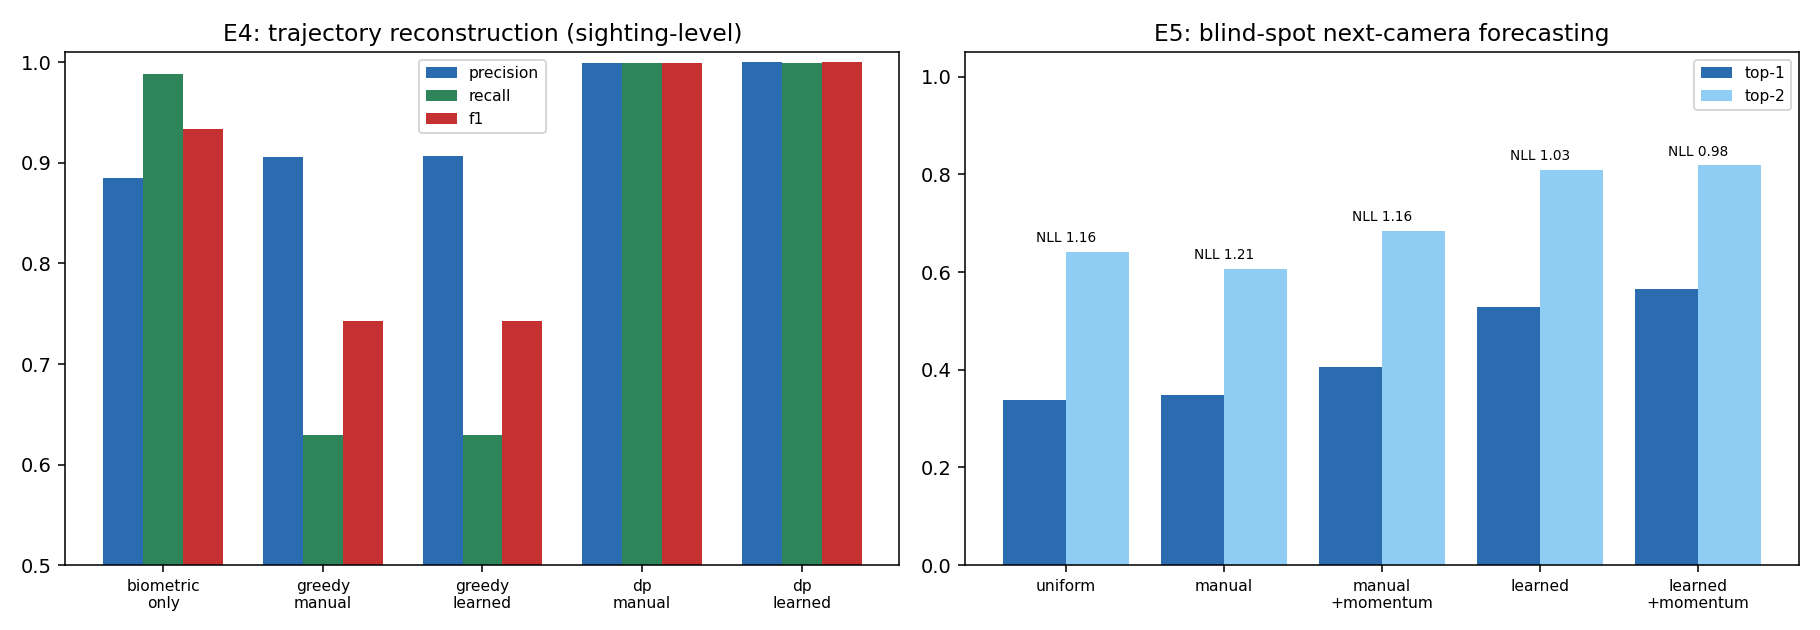
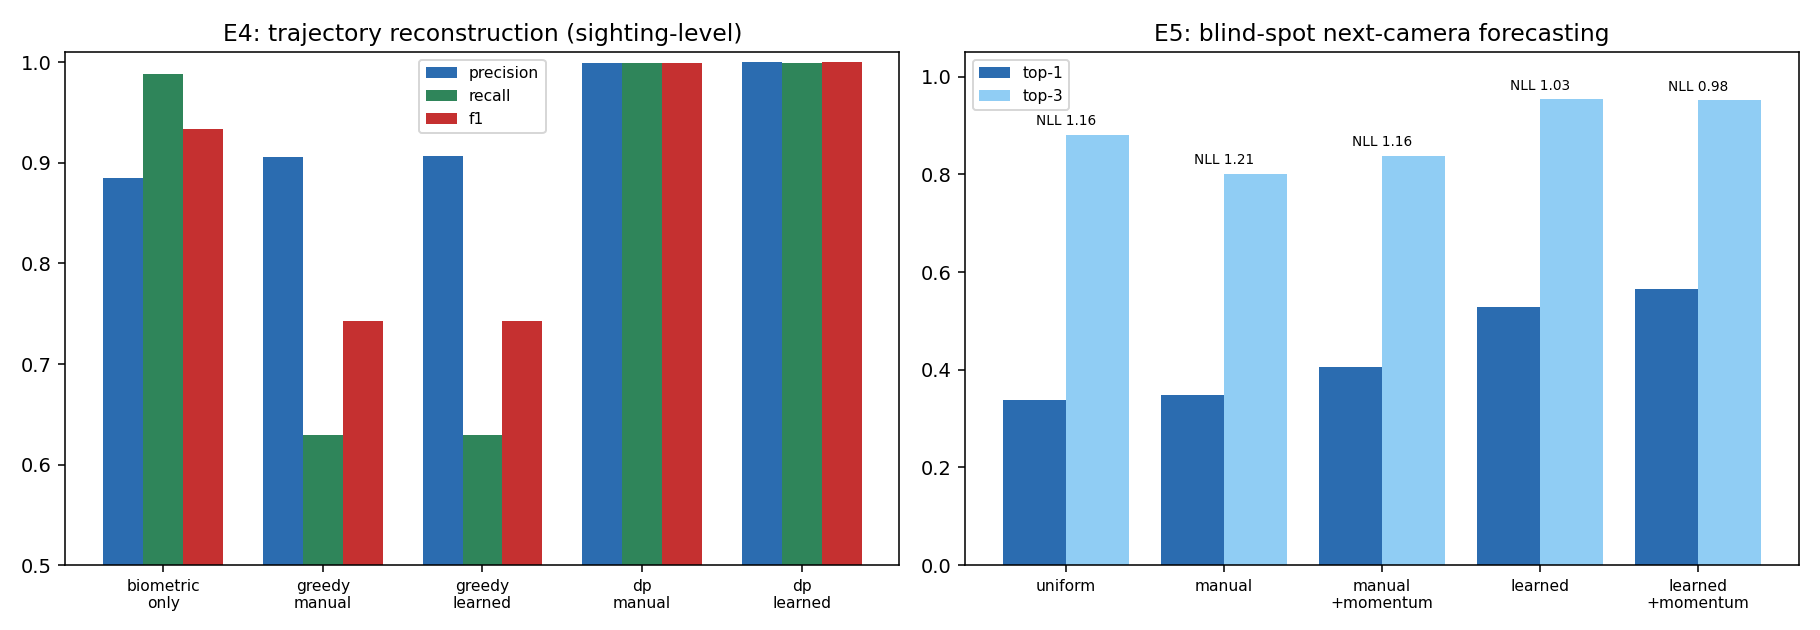
eval(p3): Task 7 three-condition ablation (rejection rate, search-space reduction, top-3) + camera-graph demo and stubs

diff --git a/eval/topology_baseline.py b/eval/topology_baseline.py
@@ -309,6 +309,113 @@ def e4b_stress(manual, learned, truth, probs, n_test, targets, rates, hop_levels
     return {"rows": rows}
 
 
+def e0_ablation(manual, learned, test: SimulationResult, cand_sets) -> Dict:
+    """
+    Task 7 ablation on simulator data with injected false matches:
+        (a) no topology    - biometric confidence only, search every camera
+        (b) manual priors  - full P3 pipeline on the hand-set graph
+        (c) learned priors - full P3 pipeline on the learned model
+    Reported per condition: trajectory precision/recall, false-candidate (look-alike)
+    rejection rate, next-camera top-1/top-3, and search-space reduction, i.e. the
+    fraction of (camera x time) cells an operator would have to watch, relative to
+    watching every camera for the whole remaining search period.
+    """
+    n_cams = len(manual.cameras)
+    pr_m = SpatiotemporalPruner(manual, use_learned=False)
+    pr_l = SpatiotemporalPruner(learned)
+    conds = {
+        "no_topology": None,
+        "manual": (TrajectoryReconstructor(manual, pr_m, method="dp"), BlindSpotForecaster(manual)),
+        "learned": (TrajectoryReconstructor(learned, pr_l, method="dp"), BlindSpotForecaster(learned)),
+    }
+    out = {}
+    for name, setup in conds.items():
+        tp = fp = fn = 0
+        n_look = n_look_kept = 0
+        cam_frac, win_s, span_s, hit = [], [], [], []
+        top1 = top3 = 0
+        n_events = 0
+        base = test.base_time.timestamp()
+        for pid, (cands, labels) in cand_sets.items():
+            visits = test.trajectories[pid]
+            if setup is None:
+                steps: Dict[int, object] = {}
+                for c in cands:
+                    k = int(math.floor(to_seconds(c.timestamp)))
+                    if k not in steps or c.fused_score > steps[k].fused_score:
+                        steps[k] = c
+                chosen = [steps[k] for k in sorted(steps)]
+            else:
+                chosen = setup[0].reconstruct(cands).selected
+            ids = {c.candidate_id for c in chosen}
+            tp += sum(1 for c in ids if labels[c])
+            fp += sum(1 for c in ids if not labels[c])
+            fn += sum(1 for c, ok in labels.items() if ok and c not in ids)
+            n_look += sum(1 for ok in labels.values() if not ok)
+            n_look_kept += sum(1 for c in ids if not labels[c])
+
+            # mid-search scenario: the operator has confirmed points up to an anchor that
+            # is not in the final camera visit, and must decide where to look next
+            chosen_sorted = sorted(chosen, key=lambda c: to_seconds(c.timestamp))
+            if not chosen_sorted:
+                continue
+            groups: List[List] = [[]]
+            for c in chosen_sorted:
+                if groups[-1] and (c.camera_id != groups[-1][-1].camera_id
+                                   or to_seconds(c.timestamp) - to_seconds(groups[-1][-1].timestamp) > 20.0):
+                    groups.append([])
+                groups[-1].append(c)
+            anchor_group = groups[-2] if len(groups) >= 2 else groups[0]
+            anchor = anchor_group[-1]
+            t_last = to_seconds(anchor.timestamp) - base
+            obs = [v for v in visits if v.observed]
+            nxt = [v for v in obs if v.arrival_time > t_last + 1e-6]
+            span = (visits[-1].departure_time - t_last) if nxt else 0.0
+            if not nxt:
+                continue
+            arrive = nxt[0].arrival_time - t_last
+            true_cam = nxt[0].camera_id
+            if setup is None:
+                cams, w = list(manual.cameras), span          # watch everything until period end
+                top1 += 1 / n_cams
+                top3 += min(3 / n_cams, 1.0)
+                n_events += 1
+            else:
+                fc = setup[1]
+                hist = [c for c in chosen_sorted if to_seconds(c.timestamp) <= to_seconds(anchor.timestamp)]
+                pred = fc.forecast(anchor.camera_id, anchor.timestamp, hist)
+                cams, w = [], 0.0
+                mass = 0.0
+                for c, p in zip(pred.candidate_next_cameras, pred.transition_probabilities):
+                    cams.append(c)
+                    mass += p
+                    if mass >= 0.9 - 1e-9:
+                        break
+                w = pred.estimated_arrival_window_seconds[1]
+                top1 += pred.candidate_next_cameras[0] == true_cam
+                top3 += true_cam in pred.candidate_next_cameras[:3]
+                n_events += 1
+            cam_frac.append(len(cams) / n_cams)
+            win_s.append(w)
+            span_s.append(span)
+            hit.append(true_cam in cams and w >= arrive >= 0)
+        p, r = tp / max(tp + fp, 1), tp / max(tp + fn, 1)
+        searched = [f * (w / max(s, 1e-9)) for f, w, s in zip(cam_frac, win_s, span_s)]
+        out[name] = {
+            "precision": p, "recall": r, "f1": 2 * p * r / max(p + r, 1e-12),
+            "false_candidate_rejection_rate": 1 - n_look_kept / max(n_look, 1),
+            "next_camera_top1": top1 / max(n_events, 1),
+            "next_camera_top3": top3 / max(n_events, 1),
+            "searched_cell_fraction": float(np.mean(searched)),
+            "search_space_reduction": 1 - float(np.mean(searched)),
+            "searched_camera_fraction": float(np.mean(cam_frac)),
+            "searched_window_mean_s": float(np.mean(win_s)),
+            "search_baseline_span_mean_s": float(np.mean(span_s)),
+            "next_sighting_inside_searched_space": float(np.mean(hit)),
+        }
+    return out
+
+
 def e5_forecaster(manual, learned, test: SimulationResult) -> Dict:
     configs = {
         "uniform": None,
@@ -330,7 +437,7 @@ def e5_forecaster(manual, learned, test: SimulationResult) -> Dict:
                 events.append((a.camera_id, last, list(history[-5:]), b.camera_id, b.arrival_time - last))
     out = {"n_events": len(events)}
     for name, fc in configs.items():
-        top1 = top2 = 0.0
+        top1 = top2 = top3 = 0.0
         nll, cov_cam, cov_union, width_cam, width_union = [], [], [], [], []
         for cam, last, hist, true_next, true_dt in events:
             if fc is None:
@@ -340,6 +447,7 @@ def e5_forecaster(manual, learned, test: SimulationResult) -> Dict:
                                  max(manual.get_transit_window(cam, c)[1] for c in succ))
                 top1 += 1 / len(succ)            # expected accuracy of a random tie-break
                 top2 += min(2 / len(succ), 1.0)
+                top3 += min(3 / len(succ), 1.0)
             else:
                 det = fc.forecast_detailed(cam, None, hist)
                 pred = det.prediction
@@ -348,13 +456,14 @@ def e5_forecaster(manual, learned, test: SimulationResult) -> Dict:
                 win_u = pred.estimated_arrival_window_seconds
                 top1 += pred.candidate_next_cameras[0] == true_next
                 top2 += true_next in pred.candidate_next_cameras[:2]
+                top3 += true_next in pred.candidate_next_cameras[:3]
             nll.append(-math.log(max(ranked.get(true_next, 0.0), 1e-12)))
             cov_cam.append(win_c[0] <= true_dt <= win_c[1])
             cov_union.append(win_u[0] <= true_dt <= win_u[1])
             width_cam.append(win_c[1] - win_c[0])
             width_union.append(win_u[1] - win_u[0])
         n = max(len(events), 1)
-        out[name] = {"top1": top1 / n, "top2": top2 / n, "nll": float(np.mean(nll)),
+        out[name] = {"top1": top1 / n, "top2": top2 / n, "top3": top3 / n, "nll": float(np.mean(nll)),
                      "per_camera_window_coverage": float(np.mean(cov_cam)),
                      "per_camera_window_width_s": float(np.mean(width_cam)),
                      "union_window_coverage": float(np.mean(cov_union)),
@@ -454,9 +563,9 @@ def plot_summary(e4: Dict, e5: Dict, path: str) -> str:
     names = [n for n in e5 if n != "n_events"]
     x = np.arange(len(names))
     ax.bar(x - 0.2, [e5[n]["top1"] for n in names], 0.4, label="top-1", color="#2b6cb0")
-    ax.bar(x + 0.2, [e5[n]["top2"] for n in names], 0.4, label="top-2", color="#90cdf4")
+    ax.bar(x + 0.2, [e5[n]["top3"] for n in names], 0.4, label="top-3", color="#90cdf4")
     for i, n in enumerate(names):
-        ax.text(i, e5[n]["top2"] + 0.02, f"NLL {e5[n]['nll']:.2f}", ha="center", fontsize=7)
+        ax.text(i, e5[n]["top3"] + 0.02, f"NLL {e5[n]['nll']:.2f}", ha="center", fontsize=7)
     ax.set_xticks(x)
     ax.set_xticklabels([n.replace("+", "\n+") for n in names], fontsize=8)
     ax.set_ylim(0, 1.05)
@@ -500,6 +609,8 @@ def main() -> None:
         n_test, p_false_match=p_false_test, target_ids=targets)
     cand_sets = _target_candidates(test, targets, manual)
 
+    print("[E0] ablation (no topology / manual / learned) ...")
+    e0 = e0_ablation(manual, learned, test, cand_sets)
     print("[E2] travel time ...")
     e2 = e2_travel_time(manual, learned, test)
     print("[E3] pruner ...")
@@ -539,6 +650,7 @@ def main() -> None:
                    "n_reference": n_ref, "p_false_train": p_false_train, "p_false_test": p_false_test,
                    "quick": args.quick},
         "learner_stats": learner.stats,
+        "e0_ablation": e0,
         "e1_learning_curve": e1,
         "e2_travel_time": e2,
         "e3_pruner": e3,
@@ -553,8 +665,18 @@ def main() -> None:
         json.dump(results, f, indent=2)
 
     print("\n" + "=" * 65)
-    print("  SAFEPASS P3 TOPOLOGY EVALUATION")
+    print("  SAFEPASS P3 TOPOLOGY EVALUATION (SIMULATED DATA ONLY)")
     print("=" * 65)
+    hdr = f"{'':<13}{'P':>7}{'R':>7}{'F1':>7}{'rejF':>7}{'top1':>7}{'top3':>7}{'srch-':>8}{'hit':>7}"
+    print("ABLATION (a) no topology | (b) manual priors | (c) learned priors")
+    print(hdr)
+    for k, v in e0.items():
+        print(f"{k:<13}{v['precision']:>7.3f}{v['recall']:>7.3f}{v['f1']:>7.3f}"
+              f"{v['false_candidate_rejection_rate']:>7.3f}{v['next_camera_top1']:>7.3f}{v['next_camera_top3']:>7.3f}"
+              f"{100 * v['search_space_reduction']:>7.1f}%{v['next_sighting_inside_searched_space']:>7.3f}")
+    print(f"(rejF = injected false candidates kept out of the trajectory; srch- = mean reduction of camera x time "
+          f"cells searched vs watching all {len(manual.cameras)} cameras until period end; "
+          f"hit = next true sighting inside that reduced space)")
     print(f"E1 KL manual {e1['kl_manual']:.4f} | learned@{sizes[-1]} {e1['kl_learned'][-1]:.4f} "
           f"| uniform {e1['kl_uniform']:.4f}")
     print(f"E2 physical window cov {e2['physical_window_coverage']:.3f} (w {e2['physical_window_mean_width_s']:.0f}s) "
@@ -574,7 +696,7 @@ def main() -> None:
               f"greedy {r['greedy_learned_f1']:.3f} dp_manual {r['dp_manual_f1']:.3f} dp_learned {r['dp_learned_f1']:.3f}")
     for k, v in e5.items():
         if k != "n_events":
-            print(f"E5 {k:<17} top1 {v['top1']:.3f} top2 {v['top2']:.3f} NLL {v['nll']:.3f} "
+            print(f"E5 {k:<17} top1 {v['top1']:.3f} top2 {v['top2']:.3f} top3 {v['top3']:.3f} NLL {v['nll']:.3f} "
                   f"camWin cov {v['per_camera_window_coverage']:.3f} w {v['per_camera_window_width_s']:.0f}s")
     print(f"E6 score_pair {e6['pruner_score_pair_us']:.1f} us | forecast {e6['forecast_ms']:.3f} ms")
     print(f"Saved {RESULTS_PATH}, {MODEL_PATH}; runtime {results['runtime_seconds']:.1f}s")

diff --git a/eval/EVAL_REPORT_P3.md b/eval/EVAL_REPORT_P3.md
@@ -4,8 +4,8 @@
 **Date:** October 2026
 **Track:** P3 - Venue Camera Topology (stretch track; does not block P1/P2)
 **Modules:** `topology/`, `eval/topology_baseline.py`
-**Data:** 100% synthetic walkers from `topology/simulator.py`. No images or real people, no minors' data.
-**Reproduce:** `python -m eval.topology_baseline` (about 25 s, seeded) and `python -m topology.test_pipeline`
+**Data:** **all results in this report are on simulated data** from `topology/simulator.py`. No images or real people, no minors' data. The simulator's assumptions are listed in §2 and their consequences in §4.
+**Reproduce:** `python -m eval.topology_baseline` (about 30 s, seeded) and `python -m topology.test_pipeline`
 **Raw numbers:** `eval/results_topology_baseline.json`. Learned model: `eval/p3_learned_model.json`
 
 ---
@@ -16,13 +16,16 @@ P3 learns the venue's camera topology from sighting logs instead of trusting han
 
 | Question | Manual priors / baseline | Learned model (P3) |
 |---|---|---|
+| Trajectory precision / recall (15% look-alikes) | 0.885 / 0.989 (biometric only) | **1.000 / 1.000** |
+| False candidates kept out of the trajectory | 18.6% (biometric only) | **100%** (manual: 99.8%) |
+| Operator search space (cameras × time vs watch everything) | -43.2% (manual), misses 40% of next sightings | **-27.9% of cells, 86.7% of next sightings inside it** |
 | Transition model error, weighted KL(true ‖ model) | 0.193 (uniform: 0.138) | **0.0055** (400 walkers) |
 | Travel-time window coverage on held-out transits | 67.4% (physical `[d/4.5, d/0.9]`) | **95.0%** (nominal 90%) |
 | Genuine vs look-alike ROC-AUC, cross-camera | 0.686 (biometric only) | 0.882 (× manual topology), **0.926** (× learned) |
 | Look-alikes rejected outright as teleports | - | **72.2%**, with **0.0%** of genuine sightings rejected |
 | Trajectory F1 (sighting-level) | 0.934 (biometric only), 0.743 (greedy) | **1.000** (DP); **0.981** under the 50%, 1-hop stress test |
 | Blind-spot flag precision / recall | 0.26 / 1.00 (physical windows) | **0.89 / 0.80** |
-| Next-camera top-1 / top-2 after a blind spot | 0.348 / 0.607 (manual priors) | **0.565 / 0.818** (learned + momentum) |
+| Next-camera top-1 / top-3 after a blind spot | 0.348 / 0.801 (manual priors) | **0.565 / 0.954** (learned + momentum) |
 | Latency | - | 3.5 µs per `score_pair`, 0.10 ms per `forecast` |
 
 The main finding: **topology alone turns a weak biometric separator (AUC 0.69) into a strong one (0.93), and the transition model can be learned from noisy re-ID logs without being corrupted by look-alikes.**
@@ -58,6 +61,26 @@ The reference `P(Cj|Ci)` is the *empirical* first-order transition frequency of 
 
 ## 3. Results
 
+### E0: Task 7 ablation - no topology vs manual priors vs learned priors
+
+Simulated data with injected false matches (60 targets, 15% look-alike rate). Per target, the operator has the confirmed trajectory up to the second-to-last camera visit and must decide where to search next.
+
+| | Precision | Recall | False-candidate rejection | Next-camera top-1 | Next-camera top-3 | Search-space reduction | Next sighting inside searched space |
+|---|---|---|---|---|---|---|---|
+| (a) No topology (biometric only) | 0.885 | 0.989 | 0.186 | 0.125* | 0.375* | 0% (all 8 cameras) | 1.000 by definition |
+| (b) Manual priors | 1.000 | 1.000 | 0.998 | 0.217 | 0.650 | 56.8% | **0.600** |
+| (c) Learned priors | 1.000 | 1.000 | **1.000** | **0.417** | **0.850** | 27.9% of cells kept | **0.867** |
+
+*Expected values of a random pick over all 8 cameras.
+
+Reading the table:
+
+- **Without topology, 81% of look-alike sightings end up in the operator's timeline**, and the next camera to watch is a coin toss across the whole venue.
+- **Both topology conditions reconstruct the trajectory perfectly and reject ≥99.8% of the false candidates.** The gain of the pipeline is dominated by topology structure (physical bounds + DP chain), not by whether the priors are manual or learned.
+- **Where learned priors matter: knowing *where* and *when* to look.** With manual priors, pruning to the top-mass cameras cuts the searched space by 57%, but 40% of the next true sightings fall outside it, because the manual arrival window `[d/4.5, d/0.9]` covers only 67% of real transits (E2) and the priors rank the next camera barely better than chance (top-1 0.217 vs 0.125). The learned model cuts the space to 28% of cells while keeping 86.7% of next sightings inside it.
+- The learned condition's reduction comes almost entirely from **camera pruning** (40.6% of cameras on average): its union arrival window (mean 188 s over the top-mass cameras) is often wider than the remaining search period (mean 129 s), so time pruning adds little until the window is refined per camera (per-true-camera windows are 100 s wide at 94.6% coverage, E5).
+- Search-space accounting: cells = (fraction of cameras searched) × (window width / remaining search period), capped at 1; "next sighting inside" = the next ground-truth observed visit starts in a searched camera within the searched window.
+
 ### E1: Learning `P(Cj|Ci)` (`plots/p3_learning_curve.png`, `plots/p3_venue_graph.png`)
 
 | Training walkers | 0 (cold) | 10 | 25 | 50 | 100 | 200 | 400 |
@@ -70,6 +93,7 @@ The reference `P(Cj|Ci)` is the *empirical* first-order transition frequency of 
 - About 10 walkers' worth of logs already halves the error of the manual priors.
 - **Chain cleaning** reduces each person's log to its topology-consistent dynamic-programming chain, using physical bounds only (not the priors being learned). It matches the clean-log upper bound: it discarded 2,080 sightings, which is about the number of injected look-alikes. Without cleaning, look-alikes leave 4× more error at 400 walkers.
 - With the default Laplace α = 1, the cold start is the prior blended toward uniform (0.163 here). With α = 0 it equals the manual priors exactly, which is tested.
+- Convergence to the simulator's *true* edge probabilities is a unit test with a stated tolerance: with 1,500 walkers (10% look-alikes) and first-order routing, mean |P_learned − P_true| falls 0.096 (manual) → 0.017 and max ≤ 0.06 (about two standard errors of the worst-observed node), monotonically in the number of walkers.
 
 ### E2: Travel-time model (`plots/p3_travel_time_fits.png`)
 
@@ -134,13 +158,13 @@ Because the physical `dt_max` is too tight (E2), "gap exceeds transit" fires on 
 
 ### E5: Blind-spot forecaster (1,833 events)
 
-| Configuration | Top-1 | Top-2 | NLL | Coverage of arrival window for the true camera | Width |
-|---|---|---|---|---|---|
-| Uniform over neighbours | 0.339 | 0.642 | 1.156 | 75.5% | 89 s |
-| Manual priors | 0.348 | 0.607 | 1.209 | 67.3% | 76 s |
-| Manual + momentum | 0.406 | 0.684 | 1.161 | 67.3% | 76 s |
-| Learned | 0.529 | 0.810 | 1.027 | 94.6% | 100 s |
-| **Learned + momentum** | **0.565** | **0.818** | **0.978** | 94.6% | 100 s |
+| Configuration | Top-1 | Top-2 | Top-3 | NLL | Coverage of arrival window for the true camera | Width |
+|---|---|---|---|---|---|---|
+| Uniform over neighbours | 0.339 | 0.642 | 0.880 | 1.156 | 75.5% | 89 s |
+| Manual priors | 0.348 | 0.607 | 0.801 | 1.209 | 67.3% | 76 s |
+| Manual + momentum | 0.406 | 0.684 | 0.839 | 1.161 | 67.3% | 76 s |
+| Learned | 0.529 | 0.810 | 0.954 | 1.027 | 94.6% | 100 s |
+| **Learned + momentum** | **0.565** | **0.818** | **0.951** | **0.978** | 94.6% | 100 s |
 
 - With these perturbed priors, manual priors are *worse than uniform* on NLL. That is exactly the failure mode hand-set topology risks.
 - Momentum (a backtrack penalty of 0.35 on the previous camera) adds about 4–6 points of top-1 accuracy on both bases.
@@ -181,3 +205,5 @@ pred = BlindSpotForecaster(g).forecast(last.camera_id, last.timestamp, rec.point
 - `coordinates` and `distance_meters` live only on the NetworkX graph.
 - The `estimated_arrival_window_seconds` window is relative to `last_seen_timestamp`.
 - `TransitionLearner` accepts simulator `Sighting`s, contract `Candidate`s (keyed by `case_id`), dicts or `(person_id, camera_id, timestamp)` tuples. It can be refit as real logs arrive.
+- **Stub JSON for integration is committed in `topology/stubs/`** (`python -m topology.stubs` regenerates): `camera_nodes.json` (List[CameraNode]), `candidates_pruned.json` (List[Candidate]), `trajectory.json` (List[TrajectoryPoint]), `spatial_prediction.json`, `search_case_result.json` (SearchCaseResult combining all of them), `venue_graph.json` (P3-internal graph format), `blind_spots.json` (P3 extension, not in the schema). All content is seeded synthetic data.
+- `python -m topology.visualizer` writes `eval/plots/p3_camera_graph.png`: the venue with every corridor labelled `[dt_min, dt_max]` and a reconstructed synthetic trajectory highlighted (dashed red = blind-spot hops along the inferred route, ringed cameras = inferred unseen cameras).

diff --git a/topology/README.md b/topology/README.md
@@ -11,7 +11,8 @@
 | `pruner.py` | `SpatiotemporalPruner`: same-camera, no-path and teleportation rules, plus a learned likelihood score (manual fallback: exponential decay beyond `dt_max`, λ = 1). |
 | `forecaster.py` | `BlindSpotForecaster`: produces a `SpatialPrediction`, with a momentum (backtrack) penalty and a path-based or learned arrival window. |
 | `trajectory.py` | `TrajectoryReconstructor`: selects a DP (or greedy) topology-consistent chain and returns `TrajectoryPoint`s plus blind-spot intervals. |
-| `visualizer.py` | Matplotlib plots: venue graph, travel-time fits, forecast, trajectory. |
+| `visualizer.py` | Matplotlib plots: venue graph, camera graph with `[dt_min, dt_max]` corridor labels + highlighted trajectory (`python -m topology.visualizer`), travel-time fits, forecast, trajectory. |
 | `test_pipeline.py` | `python -m topology.test_pipeline` |
+| `stubs.py` | `python -m topology.stubs` regenerates schema-valid stub JSON in `topology/stubs/` for P4/P1/P2 integration. |
 
 Evaluation: `python -m eval.topology_baseline`. See `eval/EVAL_REPORT_P3.md`.
